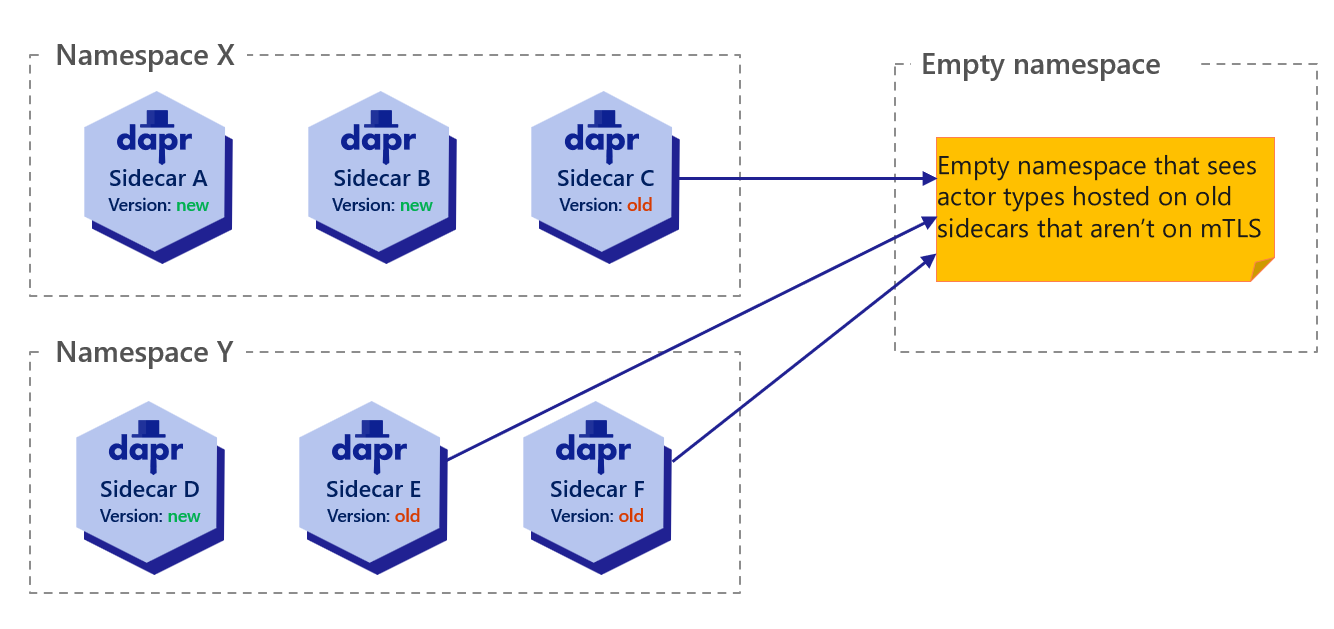
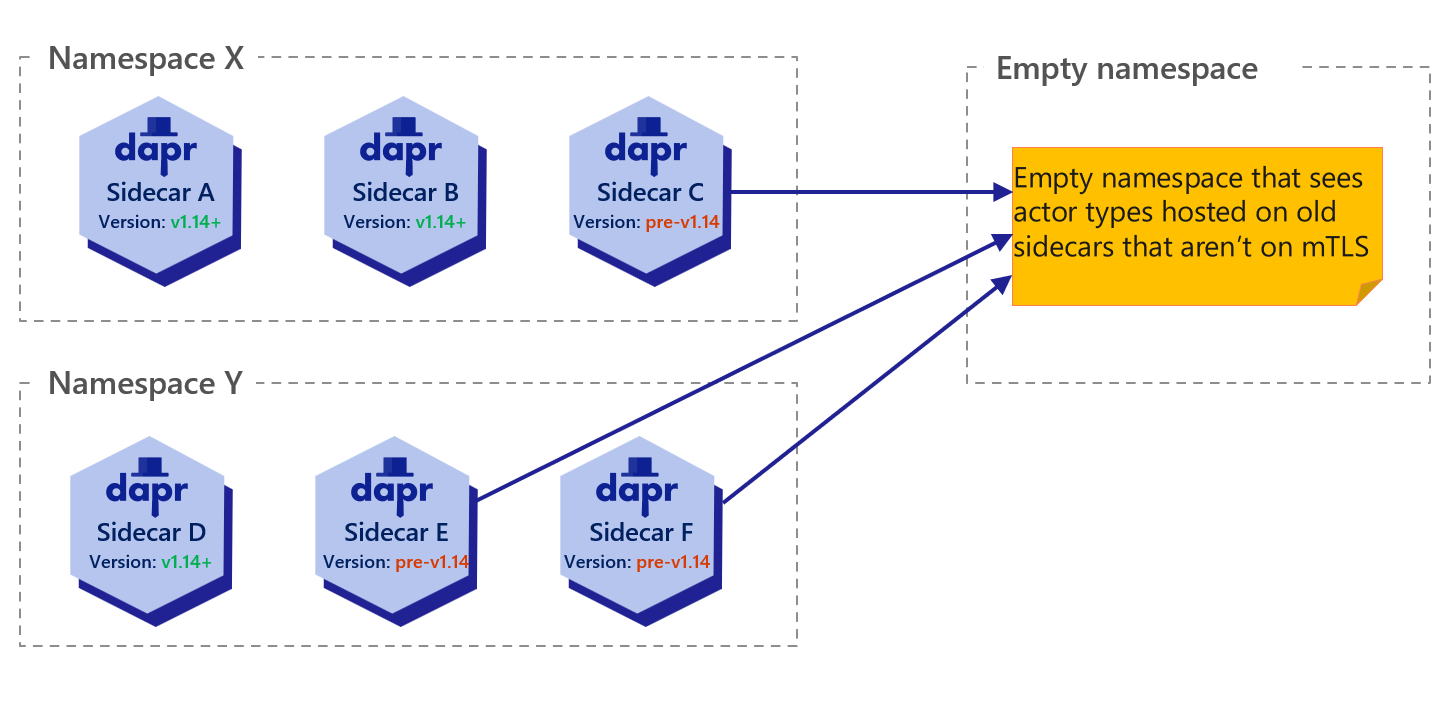
elena review

diff --git a/daprdocs/content/en/developing-applications/building-blocks/actors/namespaced-actors.md b/daprdocs/content/en/developing-applications/building-blocks/actors/namespaced-actors.md
@@ -24,15 +24,8 @@ If you're moving to a new namespace and starting to use a new state store, make 
 
 ## Backwards compatibilty
 
-Namespaced actors are backwards compatible, allowing you to block newer sidecar versions from seeing the actor types within older sidecar versions.
-
-Depending on whether mTLS is enabled, the namespace is either:
-- Verified through Spiffe ID (mTLS enabled), or
-- Accepted as-is (mTLS not enabled)
-
-### With mTLS enabled
-
-Let's say you've enabled mTLS. As soon as the placement server is updated, the sidecars in namespace X (A, B, and C) can see each other’s actor types, and no others. The same is true for sidecars D, E, and F in namespace Y.
+Namespaced actors are backwards compatible for deployments that use mTLS, because the sidecar's namespace is inferred from the Spiffe ID, allowing for multi-tenancy out-of-the-box.
+When mTLS is not enabled we default to what is explained below.
 
 <img src="/images/namespaced-actors-with-mtls.png" width=900>
 
@@ -44,7 +37,7 @@ Sidecars C, E, and F, however, can see each other’s actor-types.
 
 <img src="/images/namespaced-actors-without-mtls.png" width=900>
 
-For older sidecars that don't use mTLS, the placement service uses a special “empty” namespace. When these sidecars connect to a new placement service, they only get the actor types hosted on other old sidecars in the empty namespace that are not on mTLS.
+For pre-v1.14 sidecars that don't use mTLS, the placement service uses a special “empty” namespace. When these sidecars connect to a new placement service, they only get the actor types hosted on other pre-v1.14 sidecars in the empty namespace that are not on mTLS.
 
 <img src="/images/empty-namespace.png" width=900>
 

diff --git a/daprdocs/content/en/concepts/dapr-services/placement.md b/daprdocs/content/en/concepts/dapr-services/placement.md
@@ -5,7 +5,7 @@ linkTitle: "Placement"
 description: "Overview of the Dapr placement service"
 ---
 
-The Dapr Placement service is used to calculate and distribute distributed hash tables for the location of [Dapr actors]({{< ref actors >}}) running in [self-hosted mode]({{< ref self-hosted >}}) or on [Kubernetes]({{< ref kubernetes >}}). Grouped by namespace, the hash tables map actor types to pods or processes so a Dapr application can communicate with the actor. Anytime a Dapr application activates a Dapr actor, the placement updates the hash tables with the latest actor locations.
+The Dapr Placement service is used to calculate and distribute distributed hash tables for the location of [Dapr actors]({{< ref actors >}}) running in [self-hosted mode]({{< ref self-hosted >}}) or on [Kubernetes]({{< ref kubernetes >}}). Grouped by namespace, the hash tables map actor types to pods or processes so a Dapr application can communicate with the actor. Anytime a Dapr application activates a Dapr actor, the placement service updates the hash tables with the latest actor locations.
 
 ## Self-hosted mode
 
@@ -67,7 +67,7 @@ updatedAt | timestamp | Timestamp of the actor registered/updated.
 {
     "hostList": [{
             "name": "198.18.0.1:49347",
-                        "namespace": "ns1",
+            "namespace": "ns1",
             "appId": "actor1",
             "actorTypes": ["testActorType1", "testActorType3"],
             "updatedAt": 1690274322325260000
@@ -87,7 +87,8 @@ updatedAt | timestamp | Timestamp of the actor registered/updated.
             "updatedAt": 1690274322325260000
         }
     ],
-    "tableVersion": 1
+    "tableVersion": 1,
+    "apiLevel": 20
 }
 ```
 

diff --git a/daprdocs/content/en/developing-applications/building-blocks/actors/actors-overview.md b/daprdocs/content/en/developing-applications/building-blocks/actors/actors-overview.md
@@ -56,7 +56,7 @@ You would use Dapr Workflow when you need to define and orchestrate complex work
 
 ### Namespaced actors
 
-Dapr supports namespaced actors. For example, with Dapr's multi-tenant placement service, sidecars belonging to a tenant named "Tenant A" won't receive placement information for "Tenant B". This means that multiple tenants can have actor types with the same name. 
+Dapr supports namespaced actors. For example, with Dapr's multi-tenant placement service, where each tenant has its own namespace, sidecars belonging to a tenant named "Tenant A" won't receive placement information for "Tenant B". This means that multiple tenants can have actor types with the same name. 
 
 [Learn more about namespaced actors and how they work.]({{< ref namespaced-actors.md >}})
 
